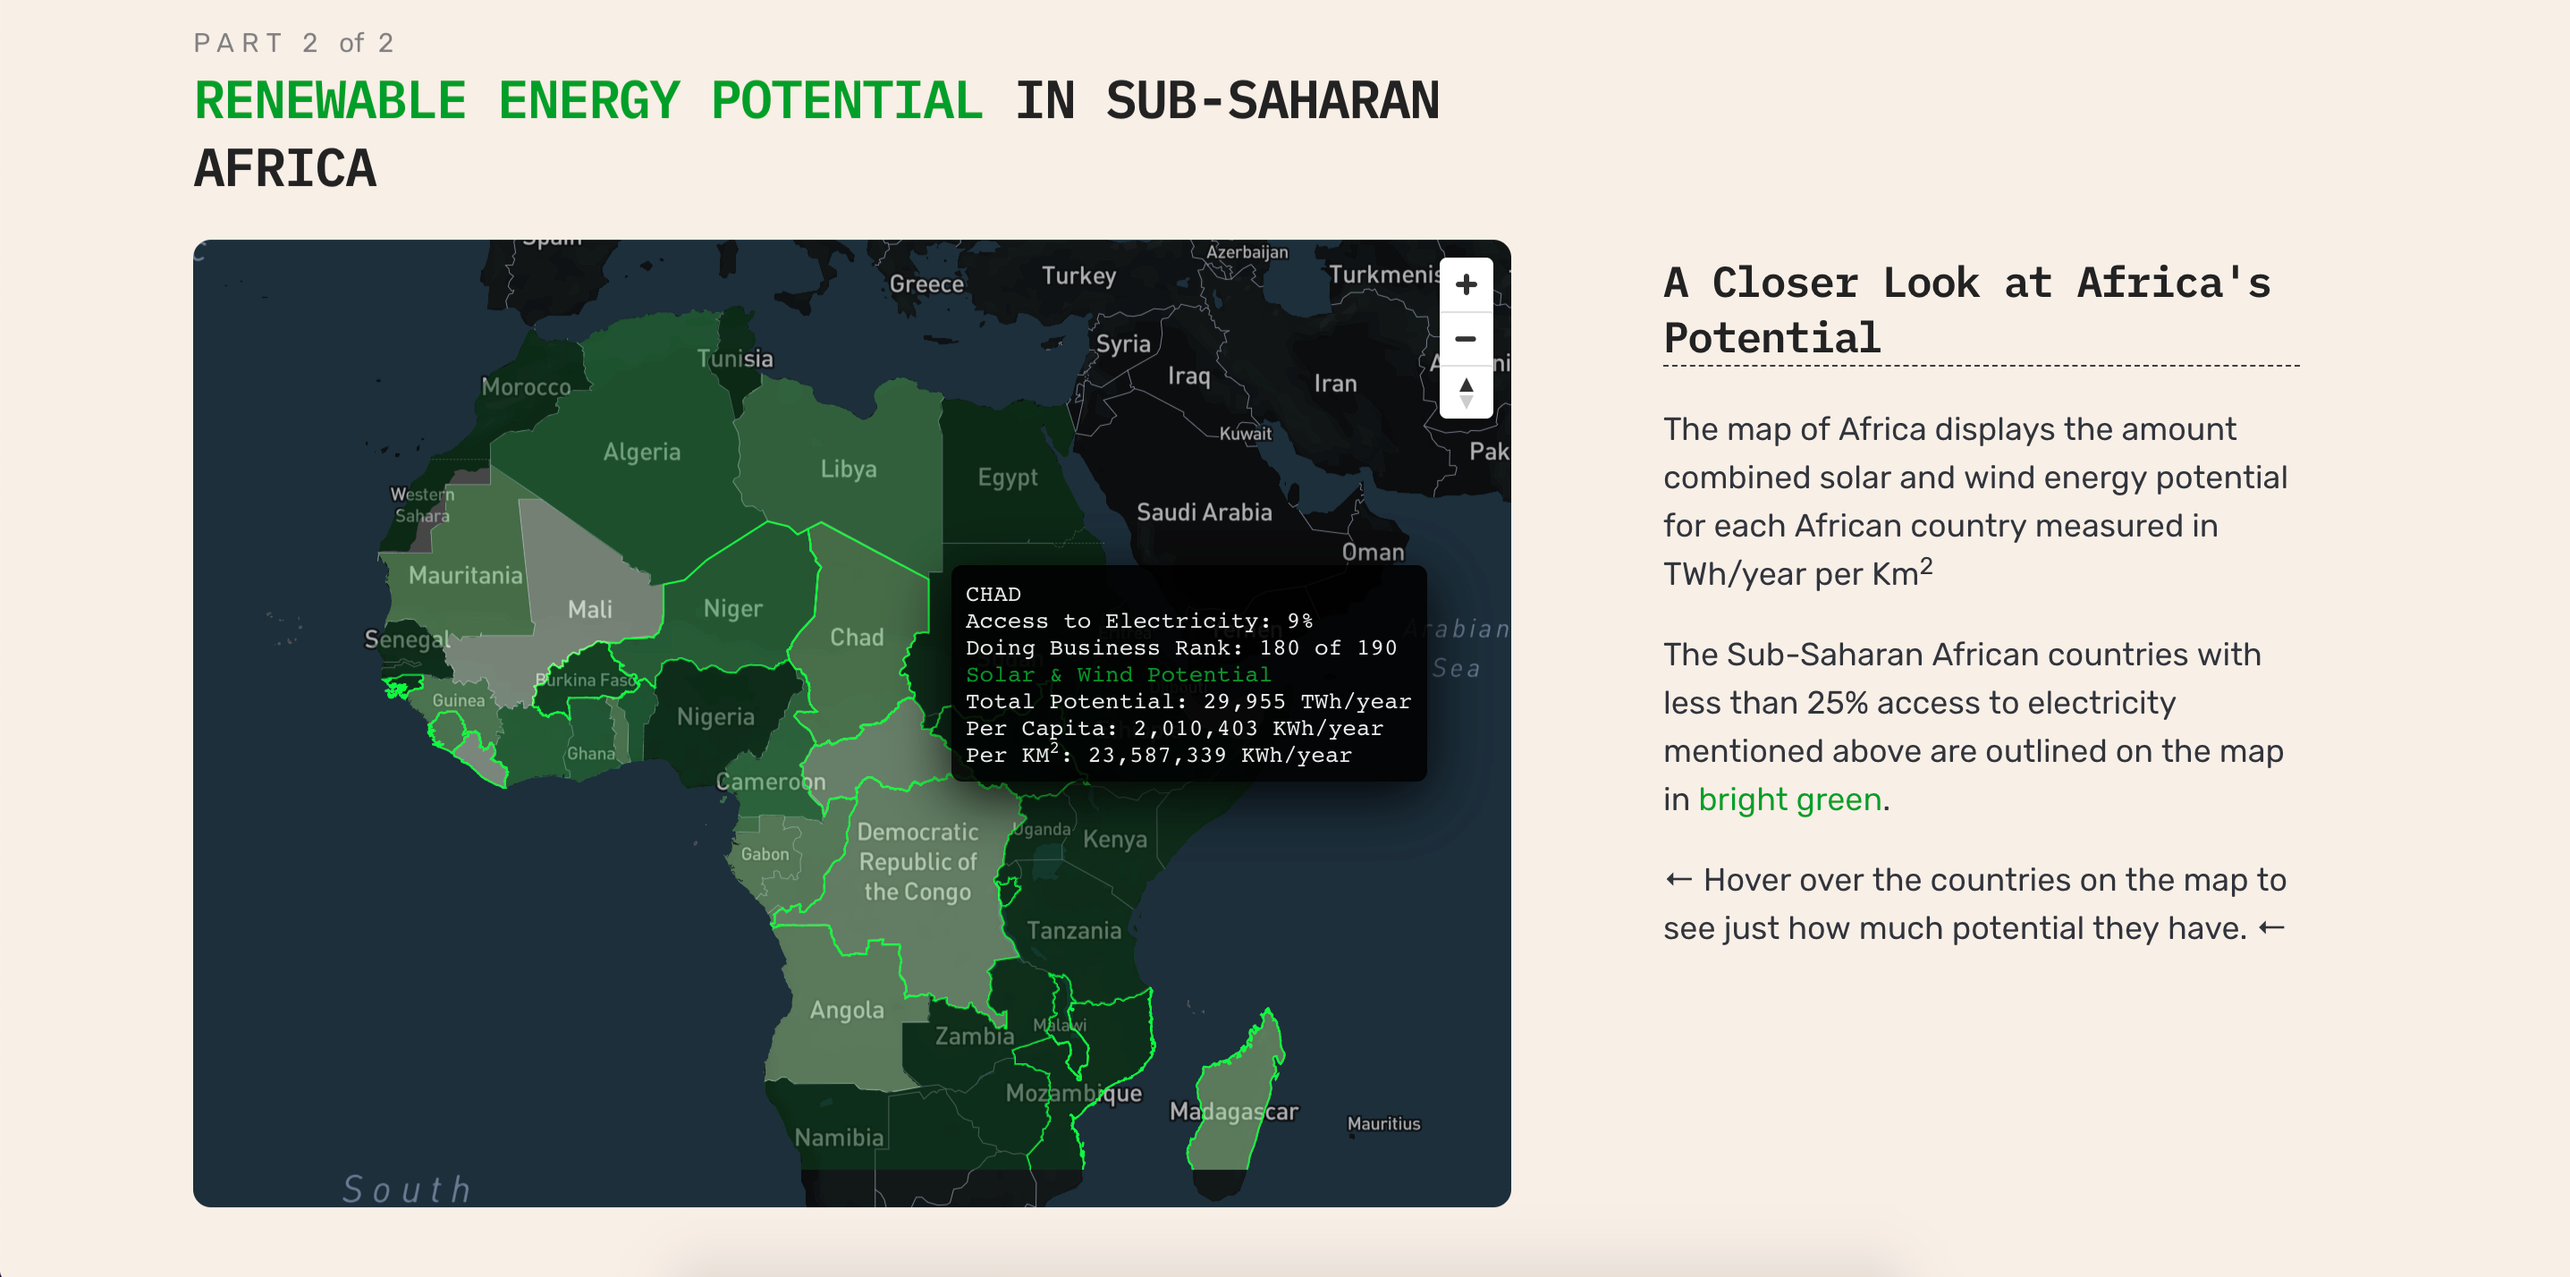
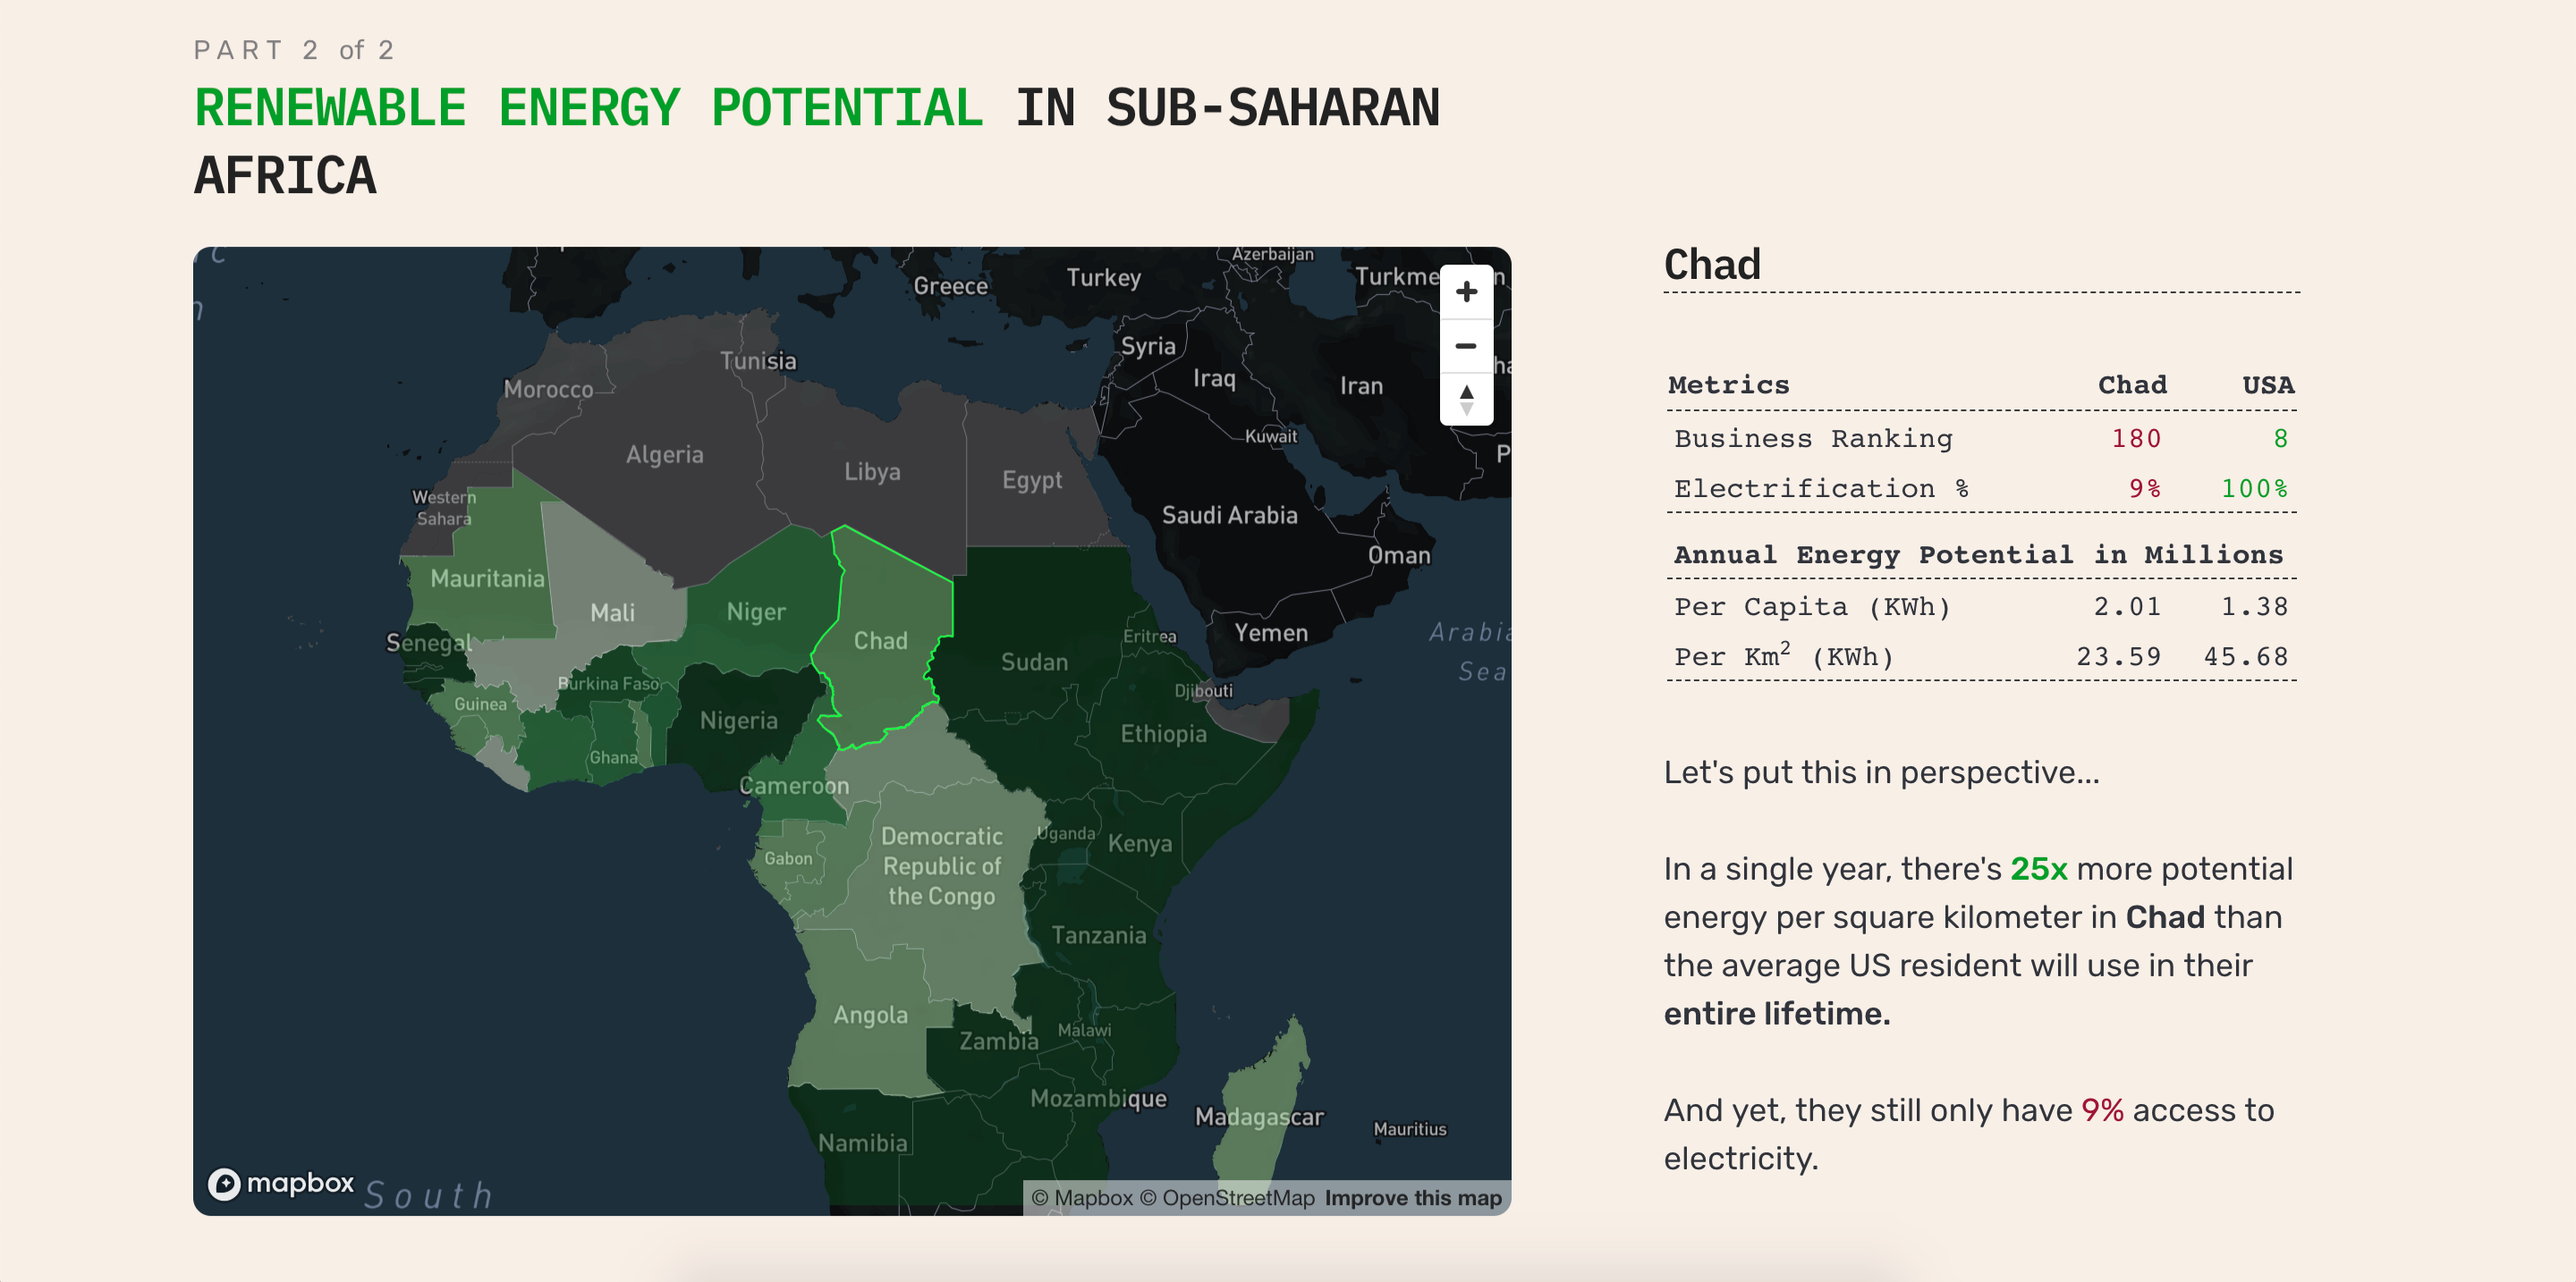
finish writing sections and update preview img

diff --git a/assignments/ease-energy/index.html b/assignments/ease-energy/index.html
@@ -241,14 +241,19 @@
             </h5>
             <p>
               13 Sub-Saharan African countries have less than 25% access to
-              electricity. All of them also fall within the 30% hardest
-              countries to do business in in the world, with an average ranking
-              of <strong>163</strong> of 190.
+              electricity and <strong class="negative">5</strong> have less than
+              just 11% with an average ease of doing business ranking of
+              <strong class="negative">163</strong> of 190.
             </p>
-
             <p>
-              Luckily, there's an opportunity. In many of these countries,
-              there's some of the highest<span class="green">
+              Just <strong class="positive">5</strong> Sub-Saharan countries
+              have more than 80% electricity. Of them, they have an average ease
+              of doing business ranking of
+              <strong class="positive">101</strong> of 190.
+            </p>
+            <p>
+              Luckily, there's an opportunity. In many of these African
+              countries, there's some of the highest<span class="green">
                 <strong>renewable potential in the entire world</strong>.
               </span>
               Africa accounts for more solar irradiance than any other continent
@@ -323,92 +328,130 @@
         </div>
         <div id="sections">
           <div class="blank">.</div>
-          <div class="text-content">
-            <h5 class="sub-header">A look at the World's Potential</h5>
-            <p>
-              In order to see just how great Africa's renewable potential is,
-              take a look at the map.
-            </p>
-          </div>
+          <!--
+            <div class="text-content">
+              <h5 class="sub-header">A look at the World's Potential</h5>
+              <p>
+                In order to see just how great Africa's renewable potential is,
+                take a look at the map.
+              </p>
+            </div>
+          -->
           <div class="text-content">
             <h5 class="sub-header">A Closer Look at Africa's Potential</h5>
             <p>
-              The map of Africa displays the amount combined solar and wind
-              energy potential for each African country measured in TWh/year per
-              Km<sup>2</sup>
+              The map of Africa displays combined solar and wind energy
+              potential for each country measured in TWh/year per Km<sup>2</sup>
             </p>
             <p>
-              The Sub-Saharan African countries with less than 25% access to
-              electricity mentioned above are outlined on the map in
-              <span class="green">bright green</span>.
+              The more <span class="green">green</span> the country, the higher
+              the natural energy potential.
             </p>
             <p class="mobile-hide">
-              ← Hover over the countries on the map to see just how much
-              potential they have. ←
+              ← Hover over the countries on the map to see their access to
+              electricity and ease of doing business ranking. ←
             </p>
           </div>
           <div class="text-content">
-            <h5 class="sub-header">Best Countries</h5>
-            <p>Best Countries</p>
+            <h5 class="sub-header">Most Electrified</h5>
+            <p>
+              Below are the 5 countries with over 80% access to electricity.
+            </p>
+            <table>
+              <caption></caption>
+              <thead>
+                <tr>
+                  <th class="left-small">Countries</th>
+                  <th class="right" colspan="1">Ranking</th>
+                  <th class="right">Electricity</th>
+                </tr>
+              </thead>
+              <tbody>
+                <tr>
+                  <td class="left-small tick ">Seychelles</td>
+                  <td>93</td>
+                  <td class="positive">100%</td>
+                </tr>
+                <tr>
+                  <td class="left-small">Mauritius</td>
+                  <td>49</td>
+                  <td class="positive">99%</td>
+                </tr>
+                <tr>
+                  <td class="left-small">Cape Verde</td>
+                  <td>129</td>
+                  <td class="positive">93%</td>
+                </tr>
+                <tr>
+                  <td class="left-small">Gabon</td>
+                  <td>164</td>
+                  <td class="positive">91%</td>
+                </tr>
+                <tr>
+                  <td class="left-small tick bottom">South Africa</td>
+                  <td class="bottom">74</td>
+                  <td class="positive bottom">84%</td>
+                </tr>
+              </tbody>
+            </table>
+            <p>What about the least electrified?</p>
           </div>
+
           <div class="text-content">
-            <h5 class="sub-header">Worst Countries</h5>
-            <p>Worst Countries</p>
-            <p>Worst Countries</p>
-            <p>Worst Countries</p>
-            <p>Worst Countries</p>
-            <p>Worst Countries</p>
-            <p>Worst Countries</p>
-            <p>Worst Countries</p>
+            <h5 class="sub-header">Least Electrified</h5>
+            <p>
+              Below are the 5 countries less than over 11% access to
+              electricity.
+            </p>
+            <table>
+              <caption></caption>
+              <thead>
+                <tr>
+                  <th class="left-small">Countries</th>
+                  <th class="right" colspan="1">Ranking</th>
+                  <th class="right">Electricity</th>
+                </tr>
+              </thead>
+              <tbody>
+                <tr>
+                  <td class="left-small">Burundi</td>
+                  <td>157</td>
+                  <td class="negative">8%</td>
+                </tr>
+                <tr>
+                  <td class="left-small tick ">South Sudan</td>
+                  <td>186</td>
+                  <td class="negative">9%</td>
+                </tr>
+                <tr>
+                  <td class="left-small">Chad</td>
+                  <td>180</td>
+                  <td class="negative">9%</td>
+                </tr>
+                <tr>
+                  <td class="left-small">Malawi</td>
+                  <td>133</td>
+                  <td class="negative">11%</td>
+                </tr>
+                <tr>
+                  <td class="left-small tick bottom">Central African Rep.</td>
+                  <td class="bottom">185</td>
+                  <td class="negative bottom">14%</td>
+                </tr>
+              </tbody>
+            </table>
+            <div class="keep-scrolling mobile-hide">
+              <h5 class="sub-header">↓ Keep Scrolling ↓</h5>
+              <p>
+                Finally, we'll make comparisons to the United States to gain
+                perspective on just how massive Africa's
+                <span class="green">renewable potential</span> is.
+              </p>
+            </div>
           </div>
           <div class="text-content">
             <h5 class="sub-header" id="name">Comparing Energy Potential</h5>
-            <!-- <h6 class="sub-header" id="name">Chad</h6> -->
-
-            <!-- <p>Select a country on the map to see more details.</p> -->
-
-            <table style="width:100%" class="countryTable">
-              <!--
-                <caption>
-                  Renewable Potential in Chad
-                </caption>
-                <thead>
-                  <tr>
-                    <th></th>
-                    <th></th>
-                    <th class="right">TWh/Year</th>
-                  </tr>
-                  <tr>
-                    <th class="left">Source</th>
-                    <th class="right">Chad</th>
-                    <th class="right">USA</th>
-                  </tr>
-                </thead>
-                <tbody>
-                  <tr>
-                    <td class="left">Solar (PV)</td>
-                    <td>10,506</td>
-                    <td class="negative">283,600</td>
-                  </tr>
-                  <tr>
-                    <td class="left">Solar (CSP)</td>
-                    <td>10,284</td>
-                    <td>116,100</td>
-                  </tr>
-                  <tr>
-                    <td class="left">Wind</td>
-                    <td class="bottom">9,165</td>
-                    <td class="bottom">49,760</td>
-                  </tr>
-                  <tr>
-                    <td class="left total">Total</td>
-                    <td class="total double positive"><sup>*</sup>29,955</td>
-                    <td class="total double">29,955</td>
-                  </tr>
-                </tbody>
-              -->
-            </table>
-
+            <table style="width:100%" class="countryTable"></table>
             <p id="analysis"></p>
           </div>
           <p class="final">.</p>

diff --git a/assignments/ease-energy/scripts/africa.js b/assignments/ease-energy/scripts/africa.js
@@ -198,14 +198,14 @@ d3.json("data/africaRev.geojson").then(geojson => {
       // }
       console.log("map", i);
 
-      if (i == 2) {
+      if (i == 1) {
         resetStrokeAndFill();
         map.flyTo({
           center: [18.2812, 4.0], // africa
           zoom: 2.2
         });
-      } else if (i == 3) {
-        hide = true;
+      } else if (i == 2) {
+        hide = false;
 
         // position
         map.flyTo({
@@ -239,8 +239,8 @@ d3.json("data/africaRev.geojson").then(geojson => {
             return 0.3;
           }
         });
-      } else if (i == 4) {
-        hide = true;
+      } else if (i == 3) {
+        hide = false;
         // position
         map.flyTo({
           center: [18.2812, 4.0], // africa
@@ -289,7 +289,7 @@ d3.json("data/africaRev.geojson").then(geojson => {
             return 0.3;
           }
         });
-      } else if (i == 5) {
+      } else if (i == 4) {
         hide = true;
         resetStrokeAndFill();
 
@@ -320,10 +320,10 @@ d3.json("data/africaRev.geojson").then(geojson => {
 
           // dynamically build HTML table and analysis paragraph
           let countryTable = document.querySelector(".countryTable");
-          countryTable.innerHTML = `<caption>
+          countryTable.innerHTML = `
+        <caption>
         </caption>
         <thead>
-     
           <tr>
          <th class="left">Metrics</th>
             <th class="right" colspan="1">${d.properties.name}</th>
@@ -334,7 +334,7 @@ d3.json("data/africaRev.geojson").then(geojson => {
           <tr>
             <td class="left tick">Business Ranking</td>
             <td class="negative">${d.properties.easedb}</td>
-            <td class="positive">5</td>
+            <td class="positive">8</td>
           </tr>
           <tr>
             <td class="left tick bottom">Electrification %</td>
@@ -344,7 +344,6 @@ d3.json("data/africaRev.geojson").then(geojson => {
           <tr class="table-break">
             <td class="left total bottom" colspan="3">Annual Energy Potential in Millions</td>
           </tr>
-    
           <tr>
             <td class="left tick">Per Capita (KWh)</td>
             <td>${numFormatF(

diff --git a/assignments/ease-energy/css/main.css b/assignments/ease-energy/css/main.css
@@ -391,12 +391,18 @@ table {
   text-align: right;
   vertical-align: bottom;
   margin: 10% 0 10% 0;
+  width: 100%;
   max-width: 100%;
 }
 
 .left {
   text-align: left;
   min-width: 180px;
+}
+
+.left-small {
+  text-align: left;
+  /* min-width: 100px; */
 }
 
 .right {
@@ -447,7 +453,7 @@ td {
 }
 
 .table-break {
-  height: 3.5rem;
+  height: 4rem;
   vertical-align: bottom;
 }
 
